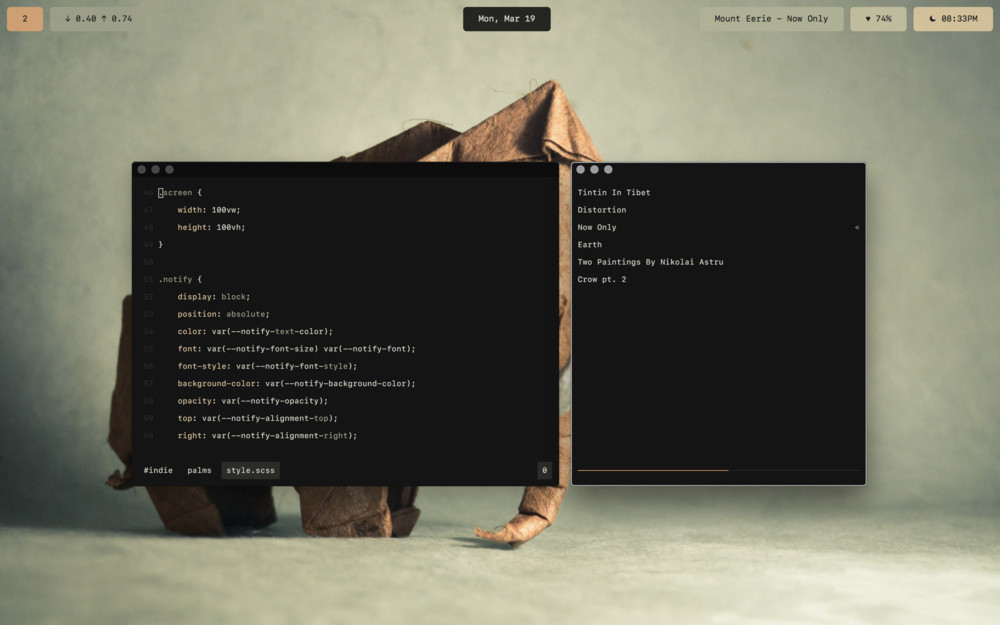
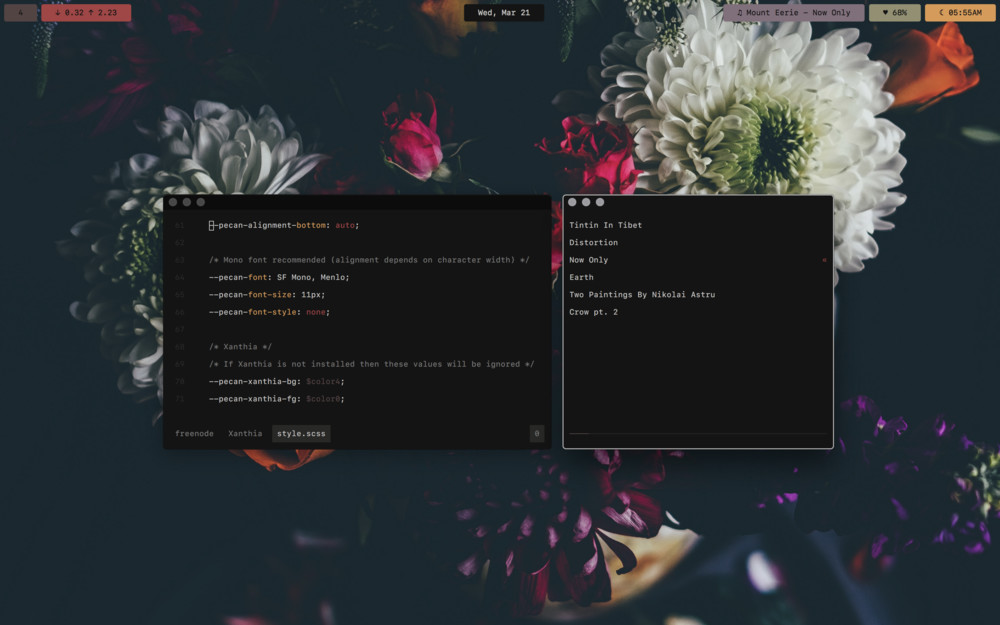
style

diff --git a/style.css b/style.css
@@ -4,15 +4,15 @@
   /* Choose background colors, ordered from left to right */
   /* Set --pecan-bg-center to "none" to have date's background same as bar */
   --pecan-bg: #141414;
-  --pecan-bg-left: #4B544F;
-  --pecan-bg-left2: #A6453E;
+  --pecan-bg-left: #564344;
+  --pecan-bg-left2: #AA4043;
   --pecan-bg-center: #141414;
-  --pecan-bg-right2: #A88077;
-  --pecan-bg-right: #768D86;
+  --pecan-bg-right2: #928F70;
+  --pecan-bg-right: #DD994E;
   /* Choose foreground colors */
   --pecan-fg-left: #141414;
   --pecan-fg-left2: #141414;
-  --pecan-fg-center: #c3c5c2;
+  --pecan-fg-center: #c9c9c5;
   --pecan-fg-right2: #141414;
   --pecan-fg-right: #141414;
   /* Opacity.  Change --pecan-opacity-center to 0 in order to hide date */
@@ -51,7 +51,7 @@
   --pecan-font-style: none;
   /* Xanthia */
   /* If Xanthia is not installed then these values will be ignored */
-  --pecan-xanthia-bg: #6E847B;
+  --pecan-xanthia-bg: #836F7C;
   --pecan-xanthia-fg: #141414;
   --pecan-xanthia-horizontal: calc(var(--pecan-padding-right) + calc(var(--pecan-text-padding) * 4) + 14ch + calc(3 * var(--pecan-border)));
   --pecan-xanthia-vertical: calc(var(--pecan-border) + var(--pecan-padding-v));

diff --git a/README.md b/README.md
@@ -5,7 +5,7 @@ Pecan is a bar for macOS.  It was built to be highly configurable and — by def
 
 ![Screenshot 2](/screenshots/4.jpg)
 
-![Screenshot_3](/screenshots/1.jpg)
+![Screenshot 3](/screenshots/1.jpg)
 
 ![Screenshot 4](/screenshots/2.jpg)
 
@@ -37,7 +37,10 @@ Current workspace ID can be shown on the left element if [ChunkWM](https://githu
 brew tap crisidev/homebrew-chunkwm
 brew install chunkwm
 ````
-  
+
+## Customization
+Pecan is, by default, styled like shown in the top screenshot.  However, Because Pecan is styled using CSS3 variables, the top lines of `style.css` can easily be editted to change properties like opacity, alignment, padding, colors and more.  If you are using this bar with Wal, then you should be editting `scss/style.scss` instead.
+
 #### Wal
 
 Pecan can pull a color palette generated by Wal using Sassc.  I have included a script, `wal-set`, that will perform this.
@@ -60,5 +63,3 @@ Now you can run the script to use Wal's palettes:
 bash ~/Library/Application\ Support/Übersicht/widgets/Pecan/wal-set
 ```
 
-## Customization
-Because Pecan is styled using CSS3 variables, the top lines of `style.css` can easily be editted to change properties like opacity, alignment, padding, colors and more.  If you are using this bar with Wal, then you should be editting `scss/style.scss` instead.
